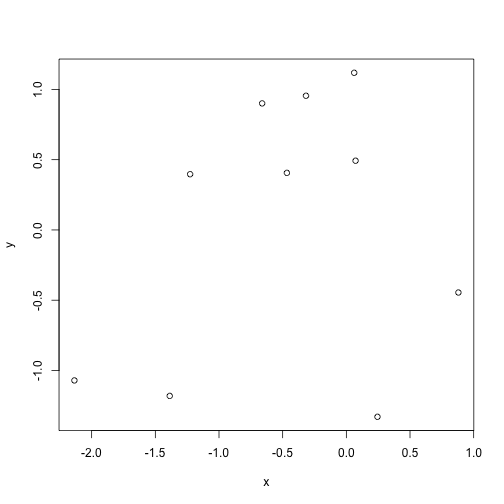
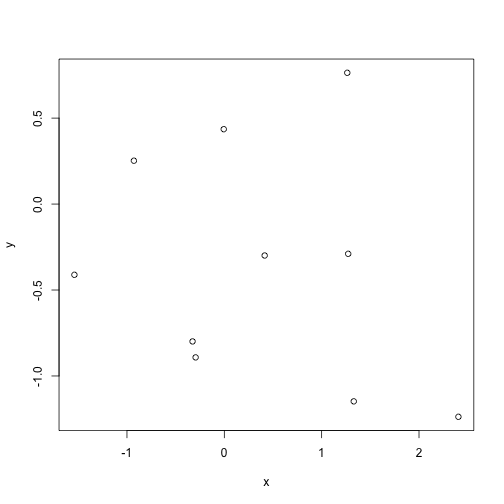
tweaks

diff --git a/research.md b/research.md
@@ -4,11 +4,12 @@ title: projects
 subtitle: R, proteomics, neurodegenerative disorders, aging
 ---
 
+_**THE PAGE IS UNDER CONSTRUCTION**_
 
 
 ## R/Bioconductor tools for proteomics
 
-Under construction...
+Modern day biology is data intensive. Proteomics is not an exception. The range of tools that I apply in my work span from signal processing of mass spectra, data reduction and feature finding to detect and quantify peptides and proteins, and variety of statistical and machine learning tools to detect the changes associated with biological and clinical phenotypes.
 
 <a href='http://www.bioconductor.org/'><img class='inset2 right' src='http://www.bioconductor.org/images/logo_bioconductor.gif' title='Bioconductor' alt='Bioconductor' width='130px' />
 
@@ -16,16 +17,25 @@ Under construction...
 
 ## Proteomics
 
-Under construction...
+In my definition, proteomics is just a set of protein characterization tools that is capable of high-throughput and multiplexing.  These days it is arguably most effective and versatile to use mass spectrometry-based approaches for the purpose of protein characterization. Mass spectrometers allow to:
+
+* identify proteins and their splice isoforms
+* quantify
+* detect numerous post-translational modifications
+* determine protein localization
+* identify and quantify interacting partners
+* measure their synthesis and degradation (turnover) rates
 
 
 
 ## Parkinson's disease
 
-Under construction...
+Quoting one of the investigators who has discovered involvement of alpha-synuclein protein into Parkinson's disease - ["Parkinson's disease is going to be a 100-piece puzzle. α-Synuclein may be a central piece of the puzzle and will hopefully give us a picture of what it will look like when it is done. But we should be prepared for another 99 pieces.”](http://www.sciencemag.org/content/276/5321/1973.long)  Besides clear biomedical urgency to find out better treatment and management options for the Parkinson's disease, it is a tough scientific problem.  Although there has been a great progress been made in understanding the molecular mechanism of the disease, still we are far from complete picture made of aforementioned 100 pieces. 
+
+My research project focuses on understanding the causes behind Lewy body generation and development of cerebrospinal fluid protein biomarkers that would be indicative of Lewy body presence.
 
 
 
 ## Aging
 
-Under construction...
+I have been productively collaborating with the [Braeckman Lab](http://www.physiology.ugent.be/People/people.html) at the University of Ghent (Belgium) on studying aging processes using the model organism _Caenorhabditis elegans_.  We use proteomics tools for quantifying relative protein abundance changes and changes in protein turnover to get a glimpse in understanding what is going on with organisms during aging and what determines longevity.

diff --git a/blog/_posts/2015-11-17-testR.md b/blog/_posts/2015-11-17-testR.md
@@ -1,16 +1,22 @@
 ---
 layout: default
-title: Test R
+title: Testing R
 subtitle: How to make an R post with a graph
 categories: category1
 body-class: categoryclass
 tags: [R, visualization]
 ---
 
-Let's see how to make post in R.
+I am planning to post quite a few things on computation and R. This is a basic post that demonstrates the capability.
+
+1. the `.Rmd` file is created as usual. It should be in `/blog/_R` folder
+2. Run `_knitposts.R` from the main directory of the repository. The paths should be set accordingly so it knows where to take the `.Rmd` file from and where to put the resulting `.md` and picture files for rendering with [Jekyll](https://jekyllrb.com/).
+3. It should be good to go now.
+
 
 
 {% highlight r %}
+set.seed(0)
 x <- rnorm(10)
 y <- rnorm(10)
 plot(x, y)

diff --git a/aboutme.md b/aboutme.md
@@ -4,16 +4,18 @@ title: about me
 subtitle: to be evolved
 ---
 
-#Work 
+_**THE PAGE IS UNDER CONSTRUCTION**_
+
+##Work 
 
 Since 2004 I have been working as a scientist at [Pacific Northwest National Laboratory][PNNL].
 
-#Education
+##Education
 
 * __Formal:__ I finished my PhD in the [Novosibirsk State University][NSU] in 2001. My thesis was focused on thermodynamics and kinetics of nucleic acid interaction involving structured regions. See my publications at [NCBI collection][ncbi_collection] page.
 * __Informal:__ My life as probably anyone else's is a continuous learning process.
 
-# Reasearch Focus
+##Reasearch Focus
 
 Proteomics, thorough data analysis, systems biology, neurodegenerative disorders and aging.
 

diff --git a/blog/_posts/2015-11-18-hello_world.md b/blog/_posts/2015-11-18-hello_world.md
@@ -1,0 +1,15 @@
+---
+layout: default
+title: Hello World
+subtitle: one day this gotta happen
+categories: category1
+body-class: categoryclass
+---
+
+It did really feel that I need a place on the web for self-expression.  I think I can add some value with my posts of my biomedical research, computational biology and perhaps math in general.
+
+As an acknowledgement I'd like to point out a few `github.io` sites that I used for figuring out how this `R/Jekyll/GitHub` thing works.
+
+* [ouzor.github.io](http://ouzor.github.io)
+* [nicolewhite.github.io](http://nicolewhite.github.io)
+* [lgatt0.github.io](http://lgatt0.github.io)
